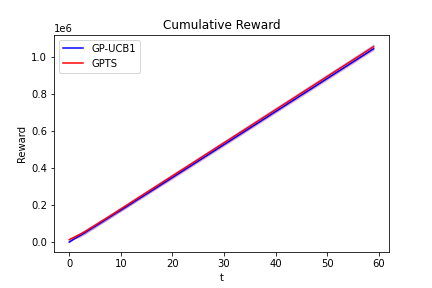
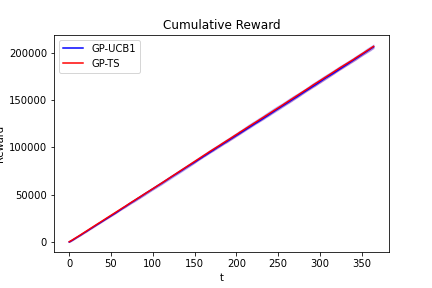
Refactor step 1 and 2

diff --git a/step_1.py b/step_1.py
@@ -2,18 +2,18 @@
 import numpy as np
 import matplotlib.pyplot as plt
 
-from Environments.Users import  UserC1, UserC2, UserC3
+from Environments.Users import  UserC1
 from Environments.Environment_S1 import Environment
 from Learners.TS_Learner import TS_Learner
 from Learners.Greedy_Learner import Greedy_Learner
 from Learners.UCB1_Learner import UCB1_Learner
 
-from param import min_bid, max_bid, n_arms_pricing, T, n_experiments_S1, production_cost
+from param import n_arms_pricing, T, n_experiments_S1, production_cost
 
 # %% Create user
-Collector = UserC1(min_bid = min_bid, max_bid = max_bid)
+Collector = UserC1()
 
-optimum  = Collector.clairvoyant(production_cost=production_cost)
+optimum  = Collector.clairvoyant()
 
 selected_bid = optimum[1]
 n_clicks = Collector.click_vs_bid(selected_bid)
@@ -27,7 +27,7 @@ ts_rewards_per_experiment = []
 for e in range(0, n_experiments_S1):
     env = Environment(n_arms=n_arms_pricing, user=Collector, selected_bid=selected_bid, production_cost=production_cost)
     gr_learner = Greedy_Learner(n_arms=n_arms_pricing, production_cost=production_cost, n_clicks=n_clicks, cost_of_click=cost_of_click)
-    ucb1_learner = UCB1_Learner(n_arms=n_arms_pricing, production_cost=production_cost, n_clicks=n_clicks, cost_of_click=cost_of_click, M = Collector._max_price-production_cost)
+    ucb1_learner = UCB1_Learner(n_arms=n_arms_pricing, production_cost=production_cost, n_clicks=n_clicks, cost_of_click=cost_of_click, M = optimum[2])
     ts_learner = TS_Learner(n_arms=n_arms_pricing, production_cost=production_cost, n_clicks=n_clicks, cost_of_click=cost_of_click)
     for t in range(0, T):
         # Greedy Learner
@@ -132,8 +132,8 @@ plt.ylabel("Reward")
 plt.plot(cum_avg_reward_ucb1, 'b')
 plt.plot(cum_avg_reward_ts, 'r')
 # plt.fill_between(range(len(cum_avg_reward_greedy)), cum_avg_reward_greedy - cum_std_rreward_greedy, cum_avg_reward_greedy + cum_std_rreward_greedy, alpha=0.2, color='g')
-plt.fill_between(range(len(cum_avg_reward_ucb1)), cum_avg_reward_ucb1 - cum_std_reward_ucb1, cum_avg_reward_ucb1 + cum_std_reward_ucb1, alpha=0.2, color='r')
-plt.fill_between(range(len(cum_avg_reward_ts)), cum_avg_reward_ts - cum_std_rreward_ts, cum_avg_reward_ts + cum_std_rreward_ts, alpha=0.2, color='b')
+plt.fill_between(range(len(cum_avg_reward_ucb1)), cum_avg_reward_ucb1 - cum_std_reward_ucb1, cum_avg_reward_ucb1 + cum_std_reward_ucb1, alpha=0.2, color='b')
+plt.fill_between(range(len(cum_avg_reward_ts)), cum_avg_reward_ts - cum_std_rreward_ts, cum_avg_reward_ts + cum_std_rreward_ts, alpha=0.2, color='r')
 plt.legend(["UCB1", "TS"]) # "Greedy",
 plt.title("Cumulative Reward")
 fig = plt.gcf()

diff --git a/step_2.py b/step_2.py
@@ -7,28 +7,26 @@ from Environments.Environment_S2 import BiddingEnvironment
 from Learners.GPTS_Learner import GPTS_Learner
 from Learners.GPUCB1_Learner import GPUCB1_Learner
 
-from param import production_cost, min_bid, max_bid, T, n_experiments_S2
+from param import production_cost, min_bid, max_bid, T, n_experiments_S2, n_arms_bidding
 
 # %% Parameters
-n_arms = 100  # number of possible bids
 Collector = UserC1()
-bids = np.linspace(min_bid, max_bid, n_arms)
+bids = np.linspace(min_bid, max_bid, n_arms_bidding)
 
 gpts_rewards_per_experiment = []
 gpucb1_rewards_per_experiment = []
 
-best_price = Collector.clairvoyant(production_cost)[0]
+best_price = Collector.clairvoyant()[0]
 conversion_rate = Collector.probabilities[np.where(Collector.prices == best_price)][0]
 
 margin = best_price - production_cost
 
 
-
 # %% Run the experiments
 for e in range(0, n_experiments_S2):
     env = BiddingEnvironment(bids=bids, margin = margin, rate = conversion_rate, user=UserC1())
-    gpucb1_learner = GPUCB1_Learner(n_arms = n_arms, bids = bids, M = max_bid)
-    gpts_learner = GPTS_Learner(n_arms = n_arms, bids = bids)
+    gpucb1_learner = GPUCB1_Learner(n_arms = n_arms_bidding, bids = bids, M = max_bid)
+    gpts_learner = GPTS_Learner(n_arms = n_arms_bidding, bids = bids)
     for t in range(0, T):
         # GP UCB1 Learner
         pulled_arm = gpucb1_learner.pull_arm()
@@ -105,8 +103,8 @@ plt.xlabel("t")
 plt.ylabel("Reward")
 plt.plot(cum_avg_reward_gpucb1, 'b')
 plt.plot(cum_avg_reward_gpts, 'r')
-plt.fill_between(range(len(cum_avg_reward_gpucb1)), cum_avg_reward_gpucb1 - cum_std_reward_gpucb1, cum_avg_reward_gpucb1 + cum_std_reward_gpucb1, alpha=0.2, color='r')
-plt.fill_between(range(len(cum_avg_reward_gpts)), cum_avg_reward_gpts - cum_std_rreward_gpts, cum_avg_reward_gpts + cum_std_rreward_gpts, alpha=0.2, color='b')
+plt.fill_between(range(len(cum_avg_reward_gpucb1)), cum_avg_reward_gpucb1 - cum_std_reward_gpucb1, cum_avg_reward_gpucb1 + cum_std_reward_gpucb1, alpha=0.2, color='b')
+plt.fill_between(range(len(cum_avg_reward_gpts)), cum_avg_reward_gpts - cum_std_rreward_gpts, cum_avg_reward_gpts + cum_std_rreward_gpts, alpha=0.2, color='r')
 plt.legend(["GP-UCB1", "GP-TS"])
 plt.title("Cumulative Reward")
 fig = plt.gcf()

diff --git a/param.py b/param.py
@@ -1,25 +1,41 @@
 import numpy as np
 
+##################################################
+#                Pricing parameters              #
+##################################################
+
 min_price = 150
-max_price = 190
+max_price = 250
 std_noise_pricing = 10
+
+n_arms_pricing = 5
+
+##################################################
+#             Advertising parameters             #
+##################################################
 
 min_bid = 0.01
 max_bid = 5.0
-std_noise_cost = (max_bid - min_bid) * 0.1
+std_noise_cost = (max_bid - min_bid) * 0.05
 std_noise_click = 10
 
-n_arms_pricing = 5
 n_arms_bidding = 100
 
+##################################################
+#              Experiment parameters             #
+##################################################
+
 T = 365
-n_experiments_S1 = 20
+n_experiments_S1 = 10
 n_experiments_S2 = 5
 
 production_cost = 100
 
 std_noise_general = 10
 
+##################################################
+#                  Users parameters              #
+##################################################
 
 p1_stationary = np.array([0.05, 0.1, 0.1, 0.025, 0.0125])
 p2_stationary = np.array([0.15, 0.125, 0.125, 0.075, 0.05])

diff --git a/Learners/GPUCB1_Learner.py b/Learners/GPUCB1_Learner.py
@@ -73,7 +73,7 @@ class GPUCB1_Learner(Learner):
         # if self.t < self.n_arms:
         #     return self.t 
         # else:
-        beta = np.sqrt(2*np.log2(self.n_arms*(self.t+1)*(self.t+1)*np.pi*np.pi/(6*0.05))) # TODO WTF is this
+        beta = np.sqrt(2*np.log2(self.n_arms*(self.t+1)*(self.t+1)*np.pi*np.pi/(6*0.05))) 
         upper_bounds = self.means + beta * self.sigmas
 
         return np.argmax(upper_bounds)

diff --git a/Environments/Environment_S1.py b/Environments/Environment_S1.py
@@ -4,7 +4,7 @@ from Environments.Users import *
 
 class Environment:
     
-    def __init__(self, n_arms = 5, user = UserC1(), selected_bid = 0.5, production_cost = 100):
+    def __init__(self,  selected_bid, production_cost, n_arms = 5, user = UserC1()):
         self.n_arms = n_arms  # 5 prices
         self.user = user
         self.n_clicks = self.user.click_vs_bid(selected_bid)  # Use the known curve
